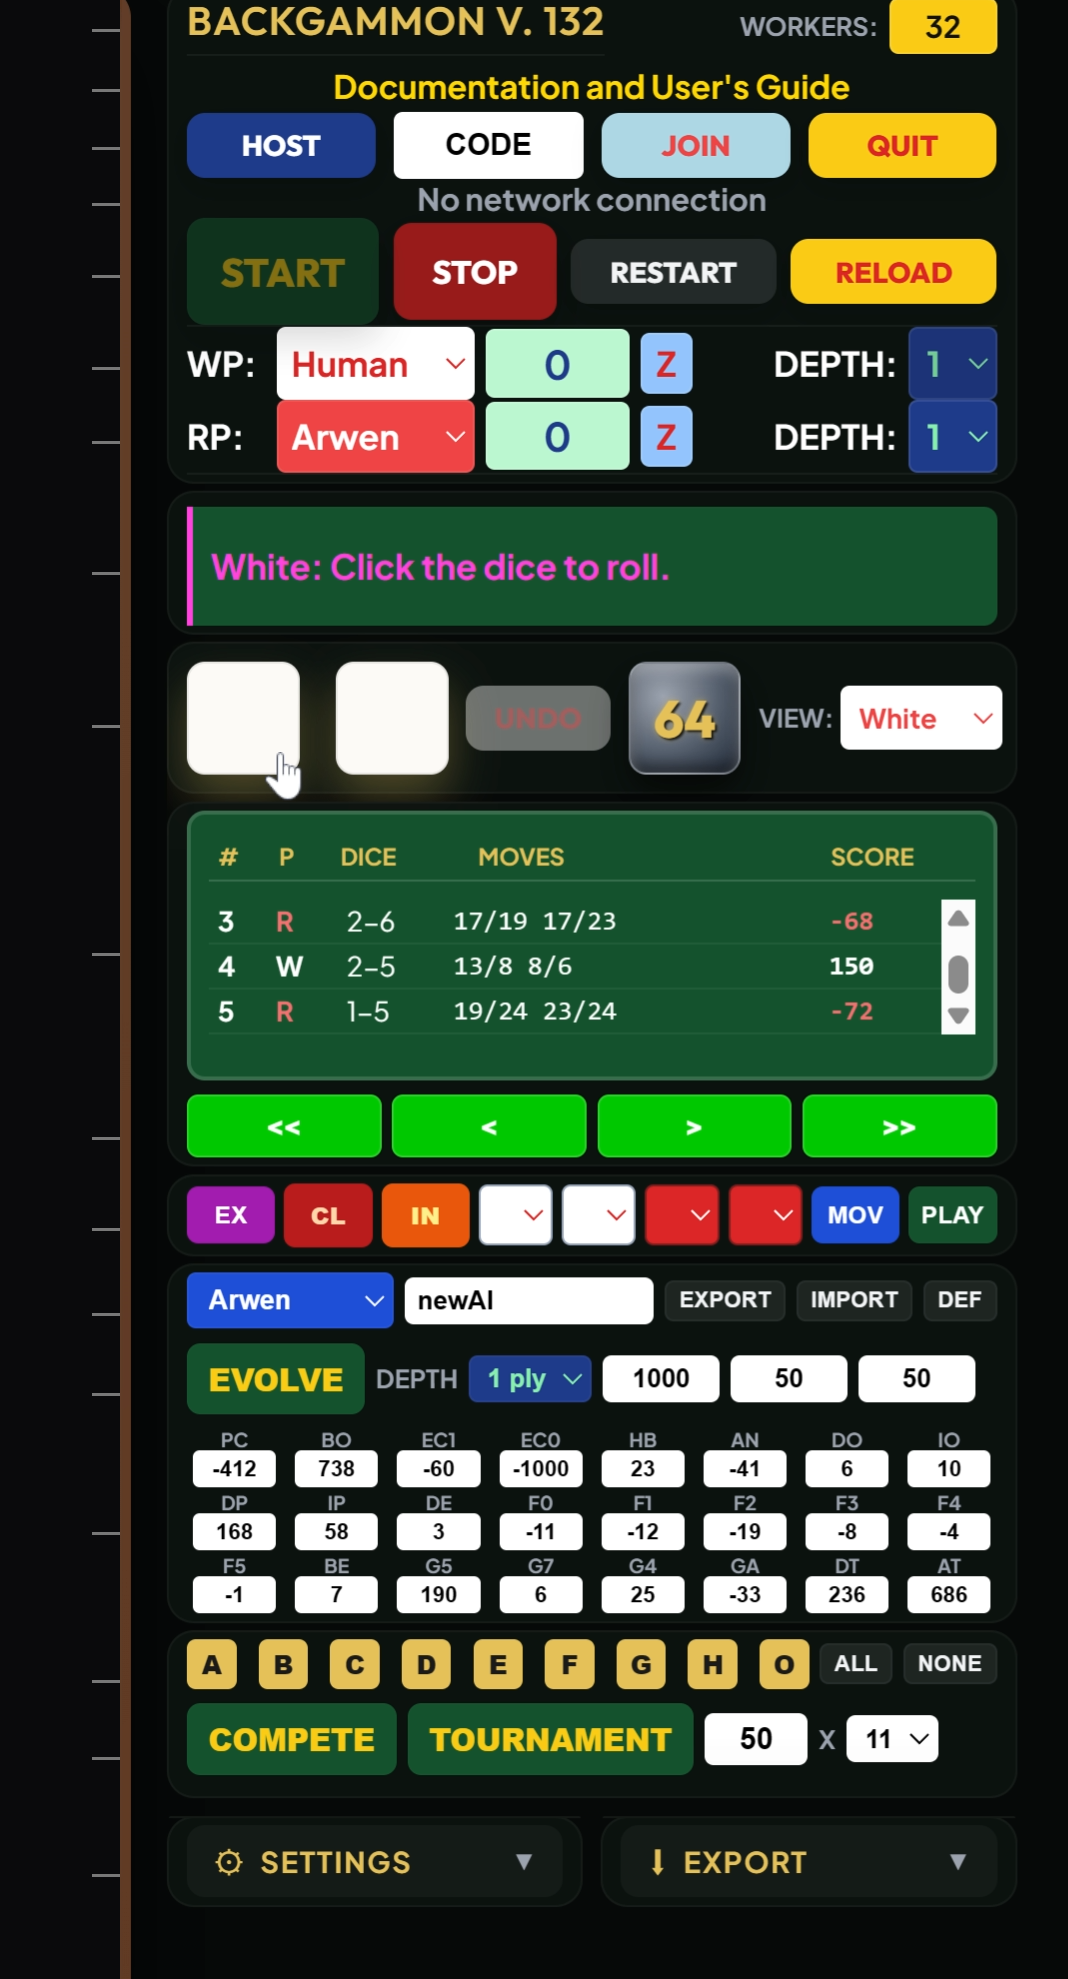
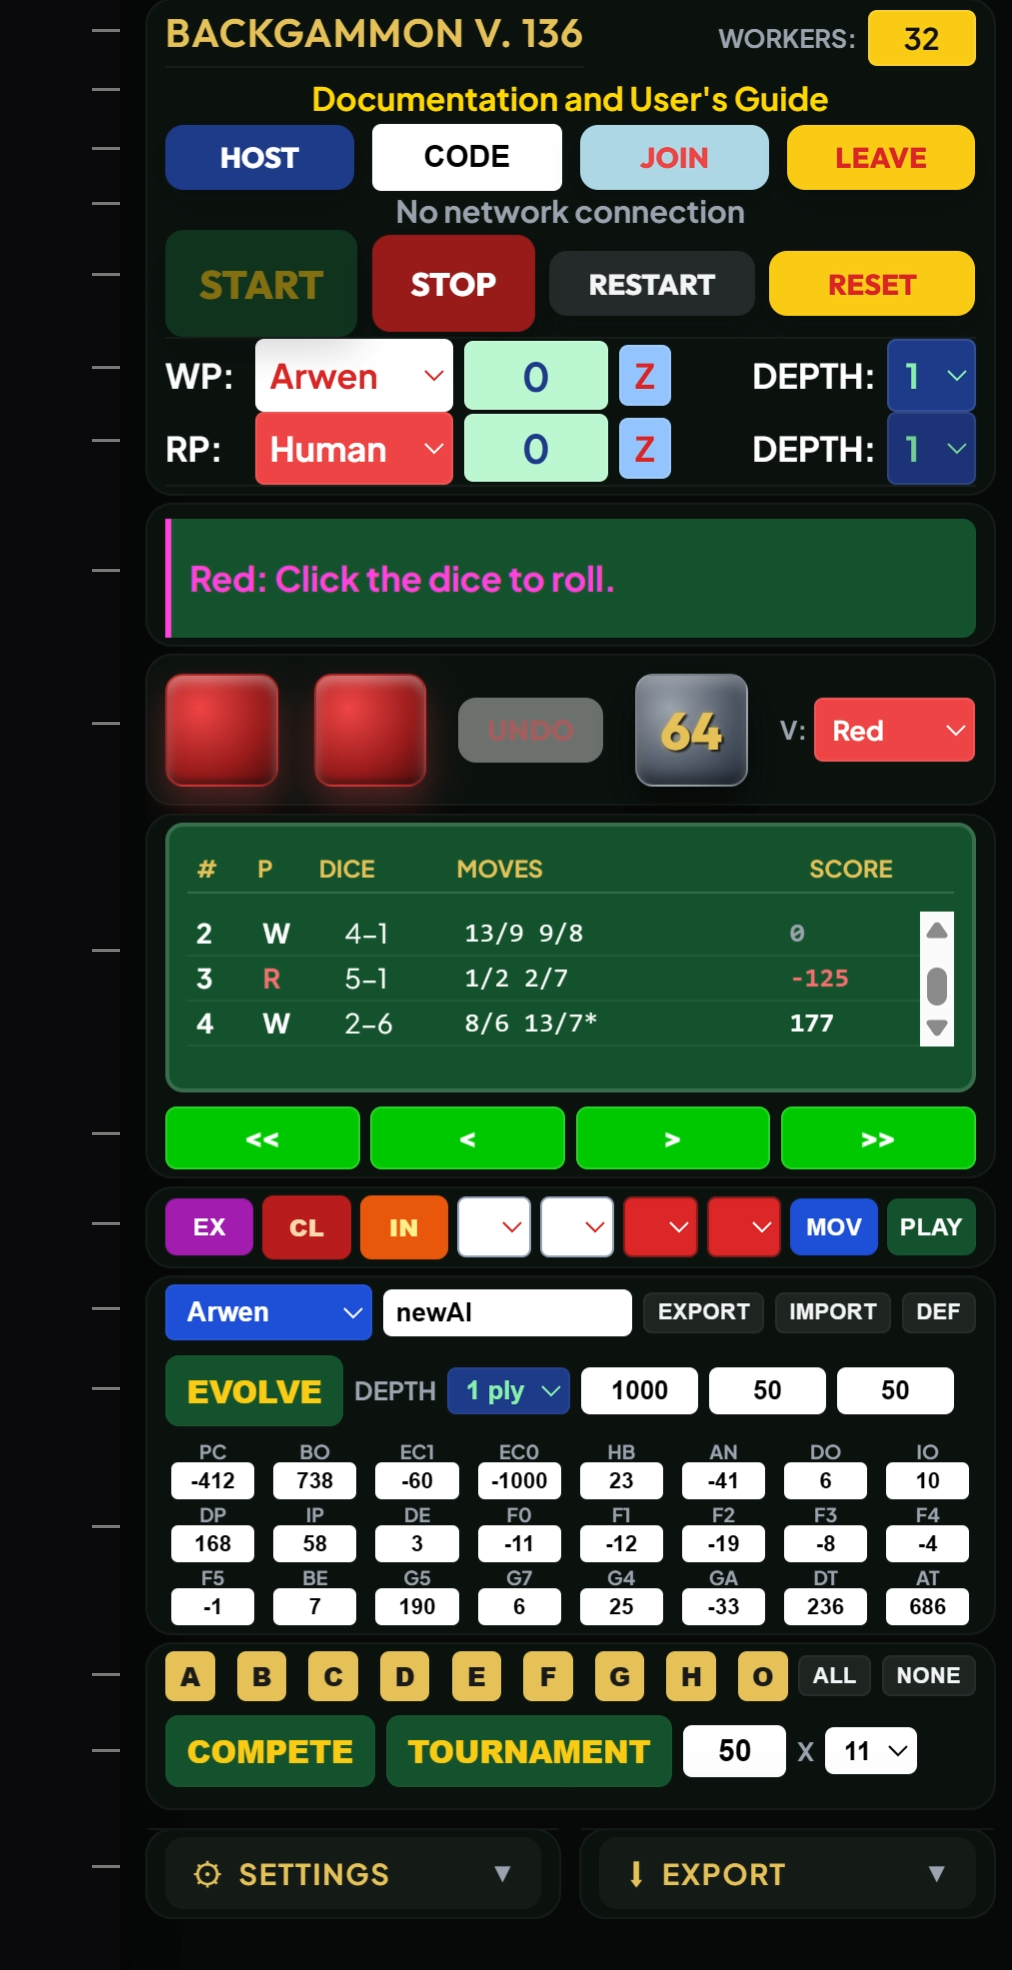
github update

diff --git a/Backgammon/ui.js b/Backgammon/ui.js
@@ -2163,6 +2163,33 @@ document.getElementById('btn-start-game').addEventListener('click', () => {
   const editBrainSel  = document.getElementById('edit-brain');
   const brainParamsEl = document.getElementById('brain-params');
   const BRAIN_KEYS = ['PC', 'BO', 'EC1', 'EC0', 'HB', 'AN', 'DO', 'IO', 'DP', 'IP', 'DE', 'F0', 'F1', 'F2', 'F3', 'F4', 'F5', 'BE', 'G5', 'G7', 'G4', 'GA', 'DT', 'AT'];
+  // Short hover reminders of what each evolvable weight means (shown as the field's tooltip).
+  const BRAIN_TITLES = {
+    PC:  'PC — pip count (the race); negative weight, so ahead-in-the-race is good',
+    BO:  'BO — checkers borne off',
+    EC1: 'EC1 — rolls with exactly one legal move (encumbrance; negative)',
+    EC0: 'EC0 — rolls with no legal move (encumbrance; negative)',
+    HB:  'HB — home-board points made (excludes the golden 4- and 5-points)',
+    AN:  'AN — anchors in the opponent home (excludes the golden anchor; gated on being behind)',
+    DO:  'DO — blot exposure: direct shots, far',
+    IO:  'IO — blot exposure: indirect shots, far',
+    DP:  'DP — blot exposure: direct shots, near',
+    IP:  'IP — blot exposure: indirect shots, near',
+    DE:  'DE — disengagement bonus: race away when ahead (move-selection only, not the static score)',
+    F0:  'F0 — freedom/containment: sealed (entombed or closed out)',
+    F1:  'F1 — freedom/containment: 1 of 6 die-values escapes the prime',
+    F2:  'F2 — freedom/containment: 2 of 6 die-values escape',
+    F3:  'F3 — freedom/containment: 3 of 6 die-values escape',
+    F4:  'F4 — freedom/containment: 4 of 6 die-values escape',
+    F5:  'F5 — freedom/containment: 5 of 6 escape (nearly free)',
+    BE:  'BE — bar entombment: extra penalty per expected frozen turn for a checker on the bar',
+    G5:  'G5 — the golden point (the 5-point), per-point made-point value',
+    G7:  'G7 — the bar/7-point, per-point made-point value',
+    G4:  'G4 — the 4-point, per-point made-point value',
+    GA:  'GA — the golden anchor (opponent 5-point), held from behind; gated on being behind',
+    DT:  'DT — doubling threshold: offer/redouble when own score exceeds DT',
+    AT:  'AT — accept threshold: accept a double unless own score is below −AT',
+  };
 
   function refreshBrainSelect() {
     if (!editBrainSel) return;
@@ -2185,8 +2212,11 @@ document.getElementById('btn-start-game').addEventListener('click', () => {
       wrap.className = 'brain-param';
       const lab = document.createElement('label');
       lab.textContent = k; lab.htmlFor = 'bp-' + k;
+      const tip = BRAIN_TITLES[k] || k;
+      lab.title = tip;
       const inp = document.createElement('input');
       inp.type = 'number'; inp.id = 'bp-' + k;
+      inp.title = tip;
       inp.addEventListener('change', () => {
         const name = editBrainSel.value;
         game.setPersonalityWeight(name, k, parseInt(inp.value, 10) || 0);
@@ -4021,39 +4051,21 @@ connection.on('data', (data) => {
     if (e.key === 'Enter') btnJoin.click();
   });
 
-// --- QUIT GAME ---
+// --- LEAVE (sever the online connection; no confirmation) ---
   const btnQuit = document.getElementById('btn-quit');
   if (btnQuit) {
     btnQuit.addEventListener('click', () => {
       if (!isNetworkGame) { sysLog('[Network] Leave: not currently in an online game.'); return; }
-      if (confirm("Leave the online game? This disconnects you from your opponent.")) {
-        // Sever the connection only — no page reload (that's the "Reset" button's job).
-        leaveNetworkGame();
-      }
+      // Sever the connection only — no page reload (that's the "Reset" button's job).
+      leaveNetworkGame();
     });
   }
 
-// --- DEFAULTS & EXIT ---
+// --- RESET (reload the page; no confirmation) ---
   const btnDefaults = document.getElementById('btn-defaults');
   if (btnDefaults) {
     btnDefaults.addEventListener('click', () => {
-      if (confirm("Restore default settings? This will clear all data and reload the page.")) {
-        window.location.reload();
-      }
-    });
-  }
-
-  const btnExit = document.getElementById('btn-exit');
-  if (btnExit) {
-    btnExit.addEventListener('click', () => {
-      if (confirm("Are you sure you want to exit the game?")) {
-        // Attempt to close the browser tab natively
-        window.close();
-        
-        // Fallback: Modern browsers sometimes block window.close() if the script didn't explicitly open the tab. 
-        // This clears the screen and gives a safe-to-close message just in case.
-        document.body.innerHTML = "<div style='display:flex; height:100vh; align-items:center; justify-content:center; flex-direction:column;'><h1 style='color:white; font-family:sans-serif;'>Game Closed.</h1><p style='color:#9ca3af; font-family:sans-serif;'>You can safely close this browser tab.</p></div>";
-      }
+      window.location.reload();
     });
   }
 

diff --git a/Backgammon/index.html b/Backgammon/index.html
@@ -152,7 +152,7 @@
   <!-- Combined Config & Network Station -->
   <div class="glass-card config-station">
     <div style="display: flex; flex-direction: row; align-items: center; justify-content: space-between; gap: 0.5rem;">
-      <h2 id="app-version" style="margin: 0;"><a href="manual.html" target="_blank" title="Open the documentation and user's guide" style="color: inherit; text-decoration: none; cursor: pointer;">Backgammon v. 135</a></h2>
+      <h2 id="app-version" style="margin: 0;"><a href="manual.html" target="_blank" title="Open the documentation and user's guide" style="color: inherit; text-decoration: none; cursor: pointer;">Backgammon v. 136</a></h2>
       <div style="display: flex; align-items: center; gap: 0.3rem; flex-shrink: 0;">
         <label for="num-workers" style="font-size: 0.7rem; color: var(--text-secondary); font-weight: 700; text-transform: uppercase;">Workers:</label>
         <input type="number" id="num-workers" min="1" value="1" title="Number of background Web Workers for the parallel search. Defaults to your CPU core count. Requires running over http:// (not file://)." style="width: 3rem; text-align: center; background: #facc15; color: #111; border: 1px solid rgba(255,255,255,0.1); border-radius: 4px; padding: 0.2rem 0.1rem; font-weight: bold; font-family: inherit;">
